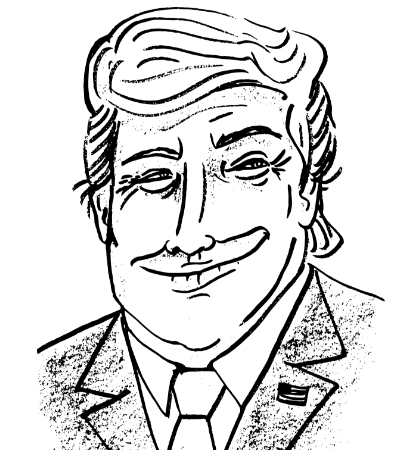
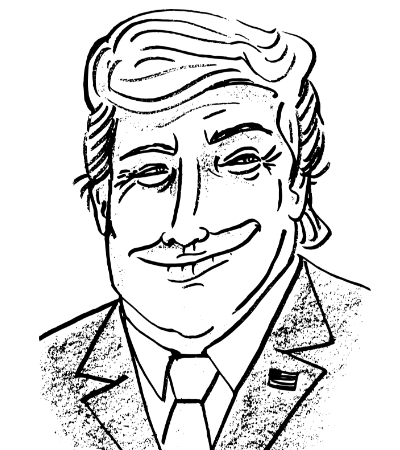
Added Ariana

Changed region(s): [[0.09, 0.0, 0.96, 1.0]]

diff --git a/index.html b/index.html
@@ -141,12 +141,12 @@
 
       <div class="caricature">
         <picture>
-          <source srcset="images/simone.webp" type="image/webp" sizes="(max-width: 600px) 100vw, 50vw" width="400"
+          <source srcset="images/ariana.webp" type="image/webp" sizes="(max-width: 600px) 100vw, 50vw" width="400"
             height="450">
-          <img src="images/simone.jpg" alt="Simone Biles" title="Simone Biles" width="400" height="450"
+          <img src="images/ariana.jpg" alt="Ariana Grande" title="Ariana Grande" width="400" height="450"
             style="max-width: 100%; height: auto;">
         </picture>
-        <p class="text">Simone Biles</p>
+        <p class="text">Ariana Grande</p>
       </div>
     </div>
     <!--row-->
